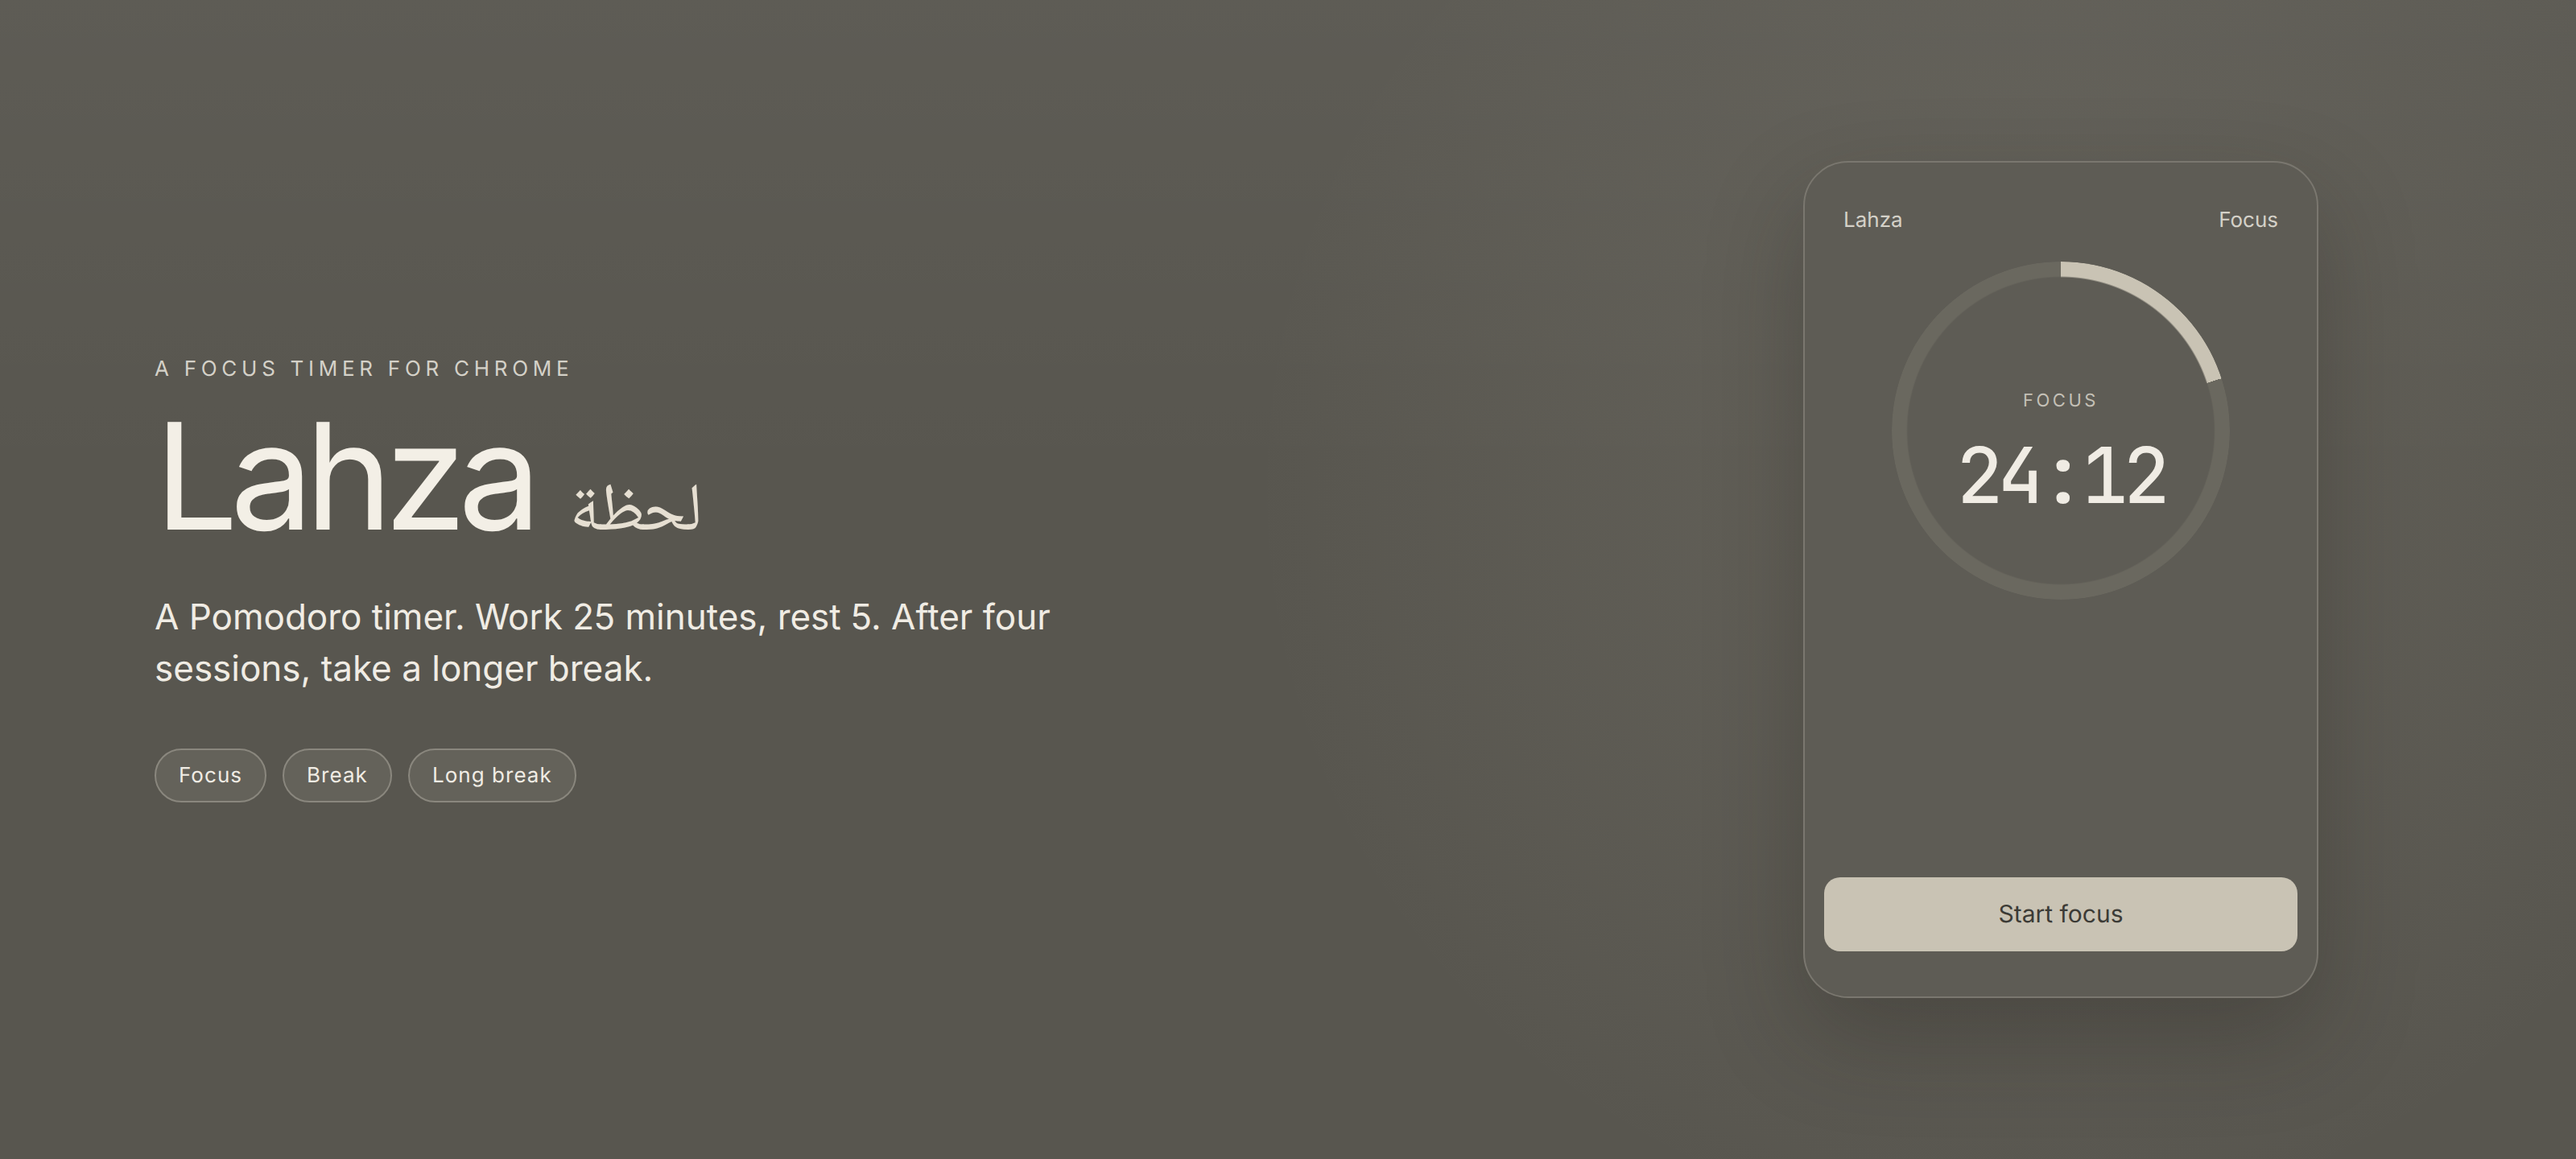
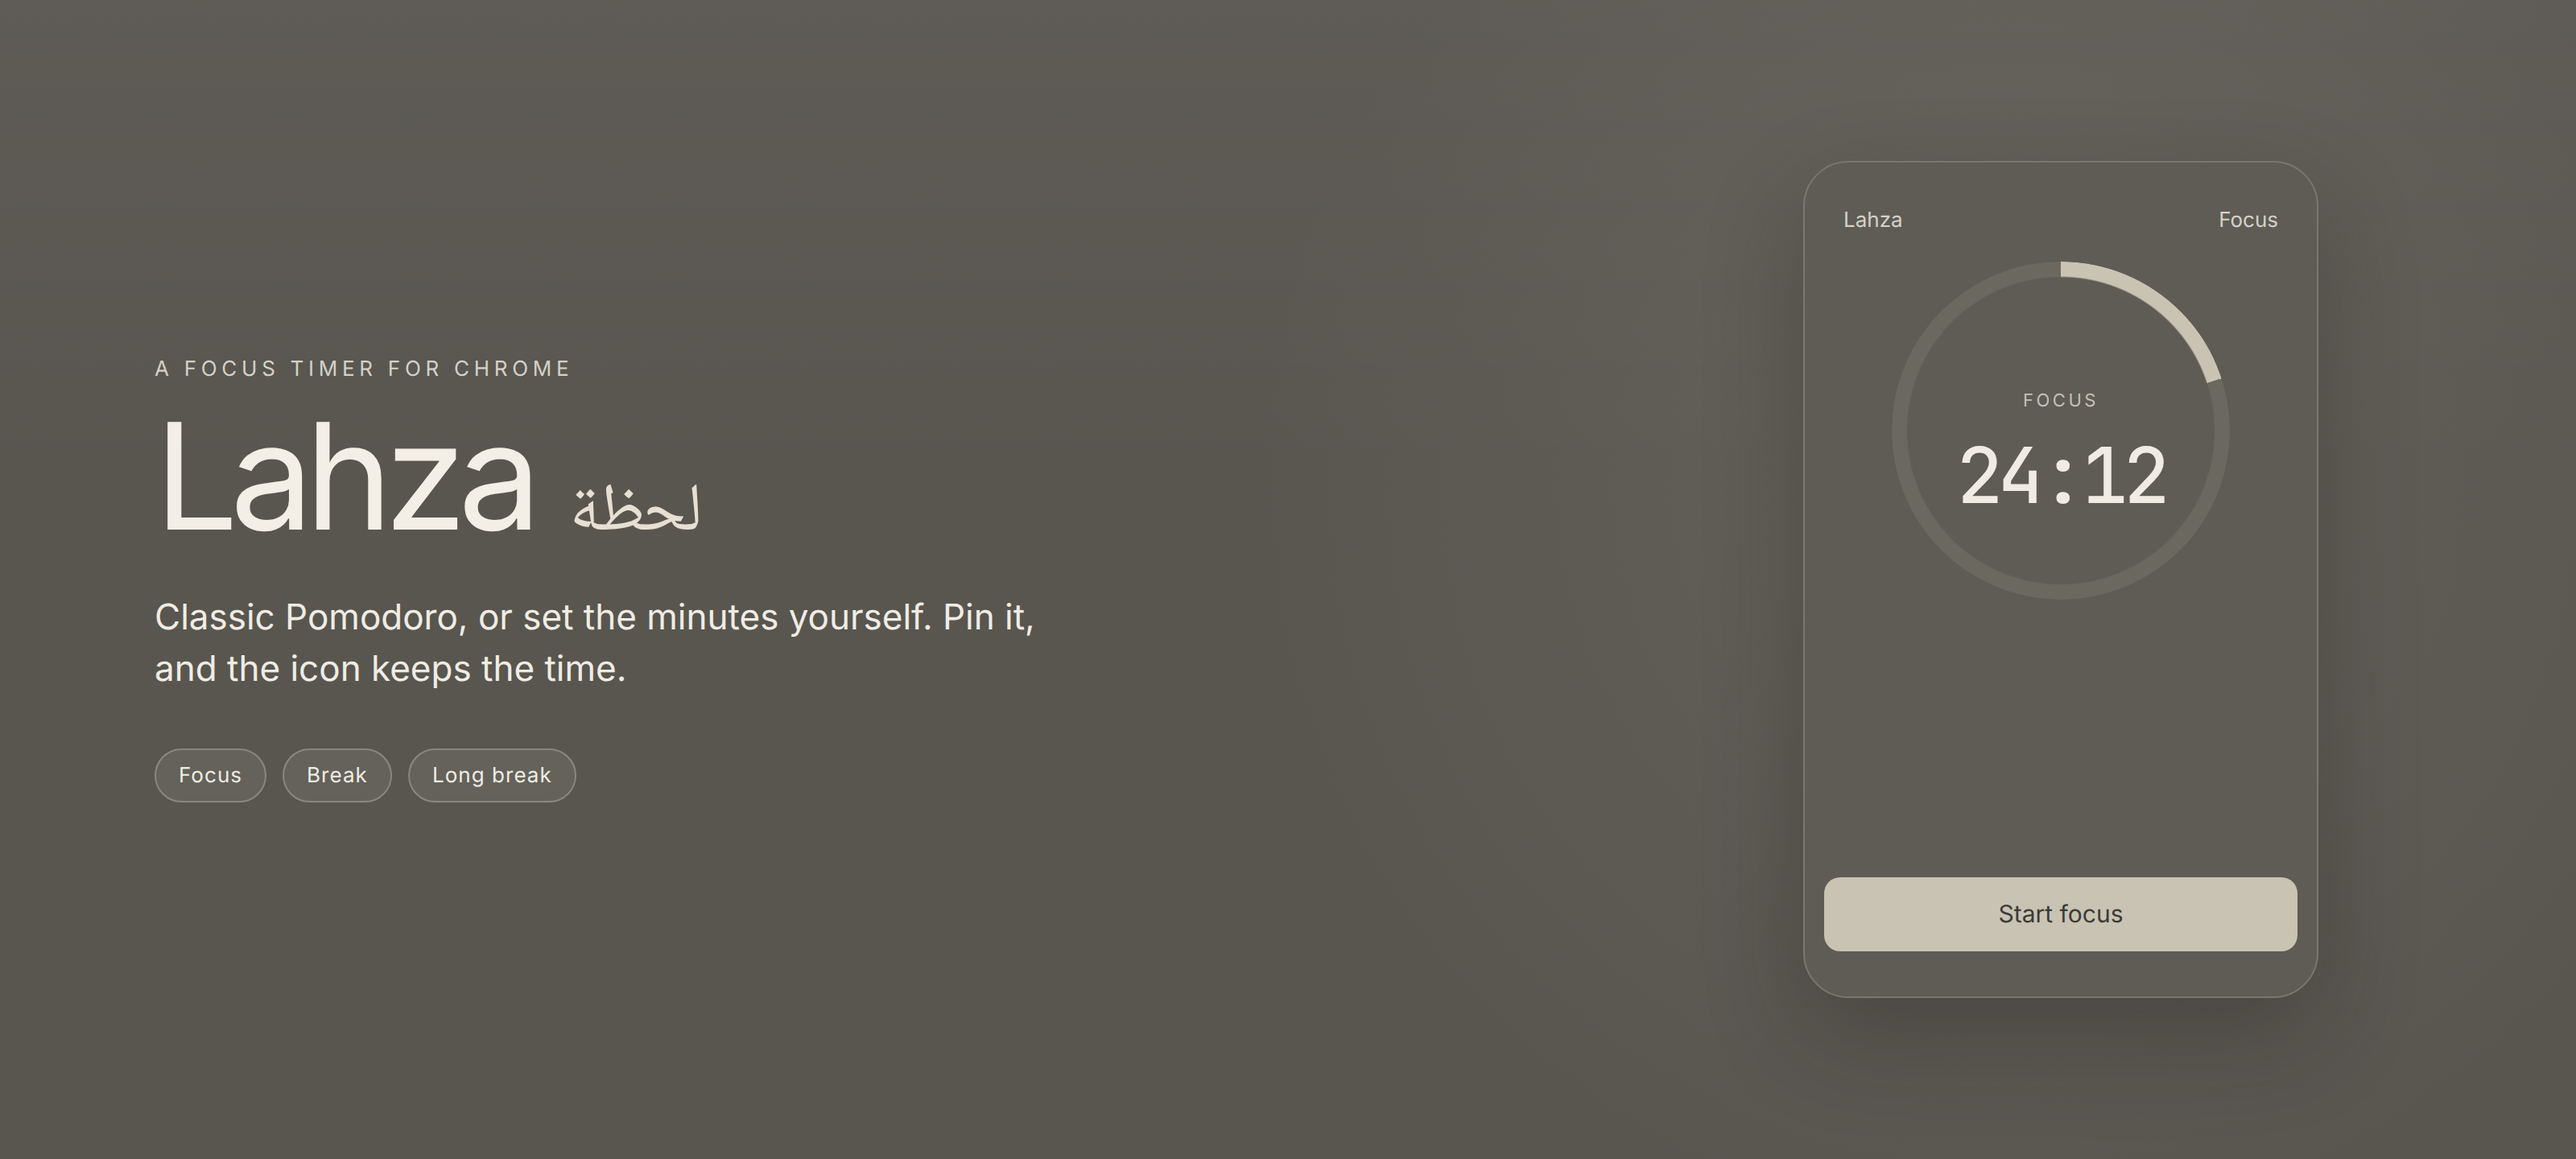
Say it is a focus timer you can tune, not only 25/5
Banner and README: classic Pomodoro, or set the minutes yourself.
Built lahza.zip for local load.

Changed region(s): [[0.0625, 0.5, 0.4062, 0.5938]]

diff --git a/docs/banners/moment.html b/docs/banners/moment.html
@@ -182,7 +182,7 @@
           <span class="arabic" lang="ar" dir="rtl">لحظة</span>
         </div>
         <p>
-          A Pomodoro timer. Work 25 minutes, rest 5. After four sessions, take a longer break.
+          Classic Pomodoro, or set the minutes yourself. Pin it, and the icon keeps the time.
         </p>
         <div class="pills">
           <span>Focus</span>

diff --git a/README.md b/README.md
@@ -1,10 +1,10 @@
 <p align="center">
-  <img src="docs/shots/banner.png" alt="Lahza — a Pomodoro timer for Chrome" width="100%" />
+  <img src="docs/shots/banner.png" alt="Lahza — a focus timer for Chrome" width="100%" />
 </p>
 
 # Lahza
 
-**A Pomodoro timer for Chrome.** You work for 25 minutes, rest for 5, and after four sessions you take a longer break. Pin it on the toolbar. While it runs, the icon shows how much time you have left.
+**A focus timer for Chrome.** Classic Pomodoro if you want 25 and 5, or set the lengths yourself. Pin it on the toolbar — while it runs, the icon shows how much time you have left.
 
 *Lahza* (لحظة) is said **LAH-zah**.
 
@@ -58,7 +58,7 @@ The popup has three tabs at the bottom.
 2. Leave **Focus** selected (or switch to **Break** / **Long**).
 3. Press **Start focus**, or press **Space**.
 4. **Pause** holds the remaining time. **Resume** continues it.
-5. **Skip** ends the block and records it. After four focuses, the next skip is a long break.
+5. **Skip** ends the block and records it. After four focuses (or whatever you set), the next skip is a long break.
 6. **Restart** starts the current block over. **Reset** returns to an idle focus.
 
 While it runs, the toolbar badge shows time left. `Alt+Shift+P` starts or pauses from any Chrome tab.
@@ -82,8 +82,8 @@ Open **Activity**. **Week** is the last seven days plus a daily list. **Month** 
 
 Open **Settings**.
 
-- **Classic 25/5**, **Deep 50/10**, **Sprint 15/3** apply immediately.
-- Focus, break, long break, rounds, and daily goal are minutes.
+- **Classic 25/5** is Pomodoro. **Deep 50/10** and **Sprint 15/3** are one click. Or type your own minutes.
+- Focus, break, long break, rounds, and daily goal are whatever you set.
 - Auto-start break / auto-start focus if you want the next block to begin on its own.
 - Sound on/off, volume, and **Play** to preview the chime.
 - **Save changes** writes the rest of the form.
@@ -115,7 +115,7 @@ That writes **`lahza.zip`** next to `package.json`. Upload it in the [Developer 
 4. Upload `lahza.zip`
 5. Fill in:
    - Name: Lahza
-   - Summary: Pomodoro timer for Chrome. 25 minutes of work, 5 minutes of rest, a longer break after four sessions.
+   - Summary: Focus timer for Chrome. Classic Pomodoro, or set your own session lengths.
    - Category: Productivity
    - Screenshots: `docs/shots/timer.png`, `running.png`, `activity.png`, `month.png`, `settings.png`, `complete.png` (the form wants 1280×800 or 640×400)
    - Small tile: `public/icon-128.png`
